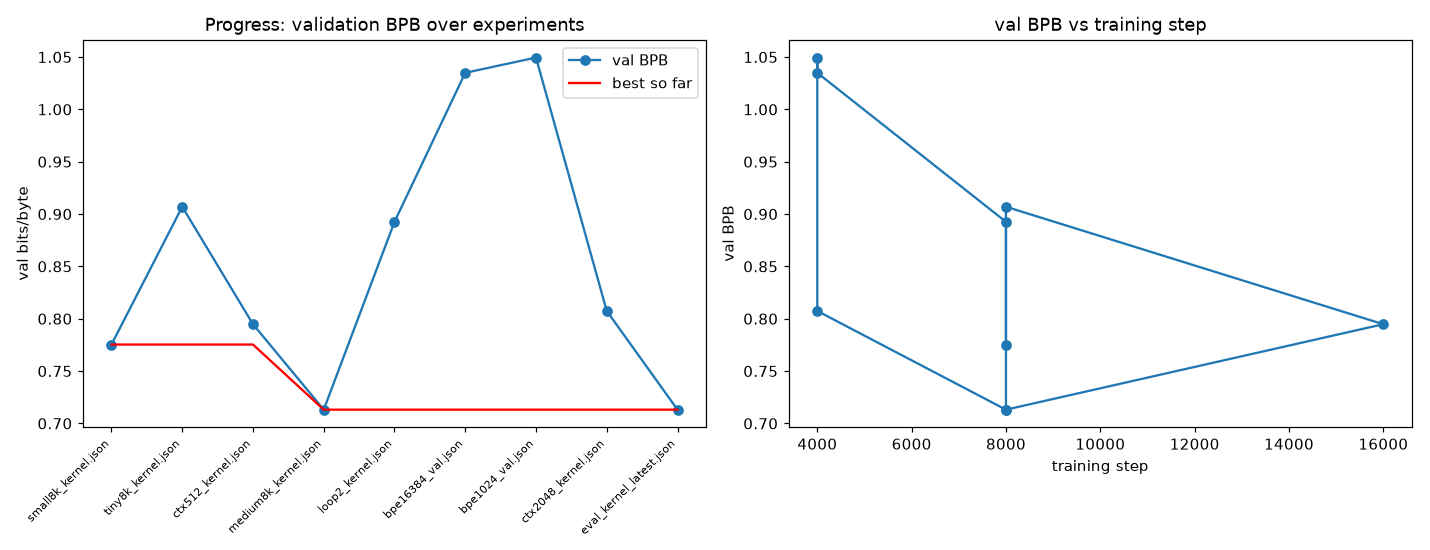
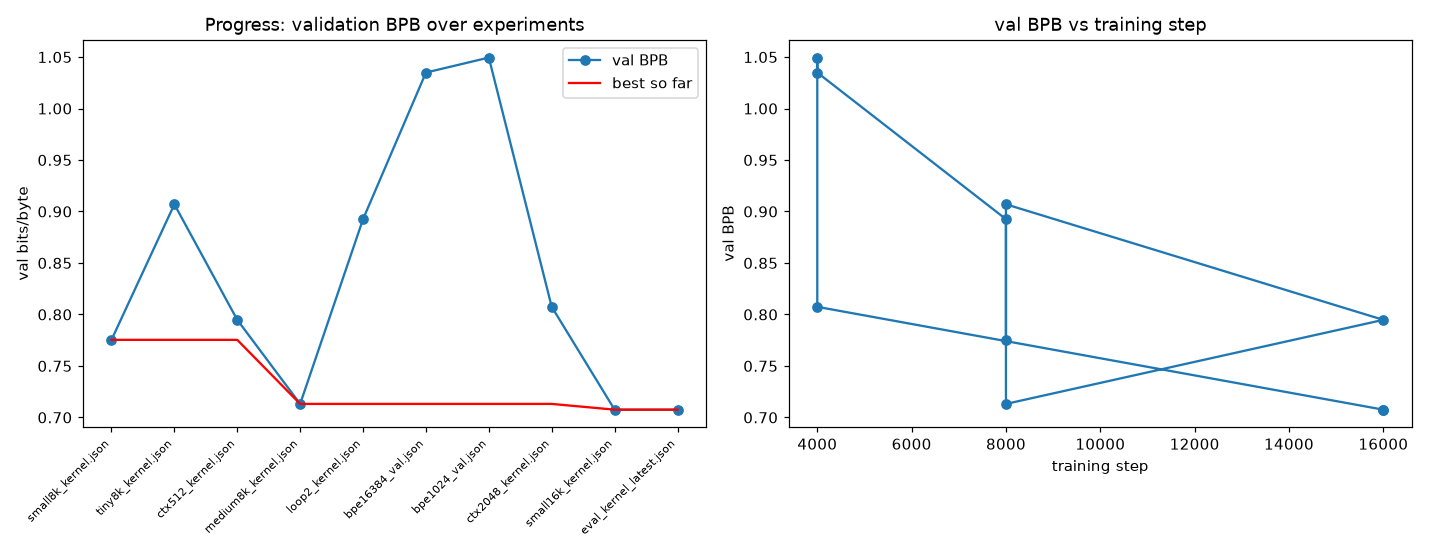
final: small16k eval suite, charts, compile eval result, complete ledger
Generated by Mistral Vibe.

diff --git a/kernel-lm/EXPERIMENTS.md b/kernel-lm/EXPERIMENTS.md
@@ -259,6 +259,22 @@ Lexical breakdown (small-16k, val): identifier_seen 0.90 nats vs identifier_nove
 9–64 → 1.09, 65–512 → 1.64, 512+ → 3.13. Cheapest: whitespace 0.41, preprocessor
 0.59, string 0.61. Hardest: novel identifiers, operators 1.55, types 1.54.
 
+Compile eval (evaluation/compile_eval.py, gcc -fsyntax-only with stub harness):
+0/45 generated function bodies syntax-valid — generated code is kernel-plausible
+but references real kernel symbols the stub harness lacks. Treat the balanced-
+delimiter rate (81.8%) and exact-line match (30.4%) as the generation metrics;
+full kernel-tree compilation of generations is future work.
+
+## Negative / limitation results (kept per methodology)
+
+- Looped transformer (n_loop=2): +1.5% BPB at equal tokens but 2× FLOPs → not a
+  per-FLOP win (E11).
+- ctx 2048 at equal tokens: slightly worse than ctx 1024 (E8).
+- BPE vocab 1024/16384 vs 4096: BPB-neutral at 4k steps (E11b).
+- gcc syntax-check of sampled function bodies: 0/45 with stub harness.
+- 1,605 near-duplicate file pairs straddle train/eval splits (mostly boilerplate
+  headers) — file-level splits cannot fully remove templated-code leakage (E9).
+
 ## E11b — Tokenizer vocab sweep with models (tiny, 4000 steps = 131M tokens, val BPB)
 
 | tokenizer | bytes/token (val) | val BPB |
